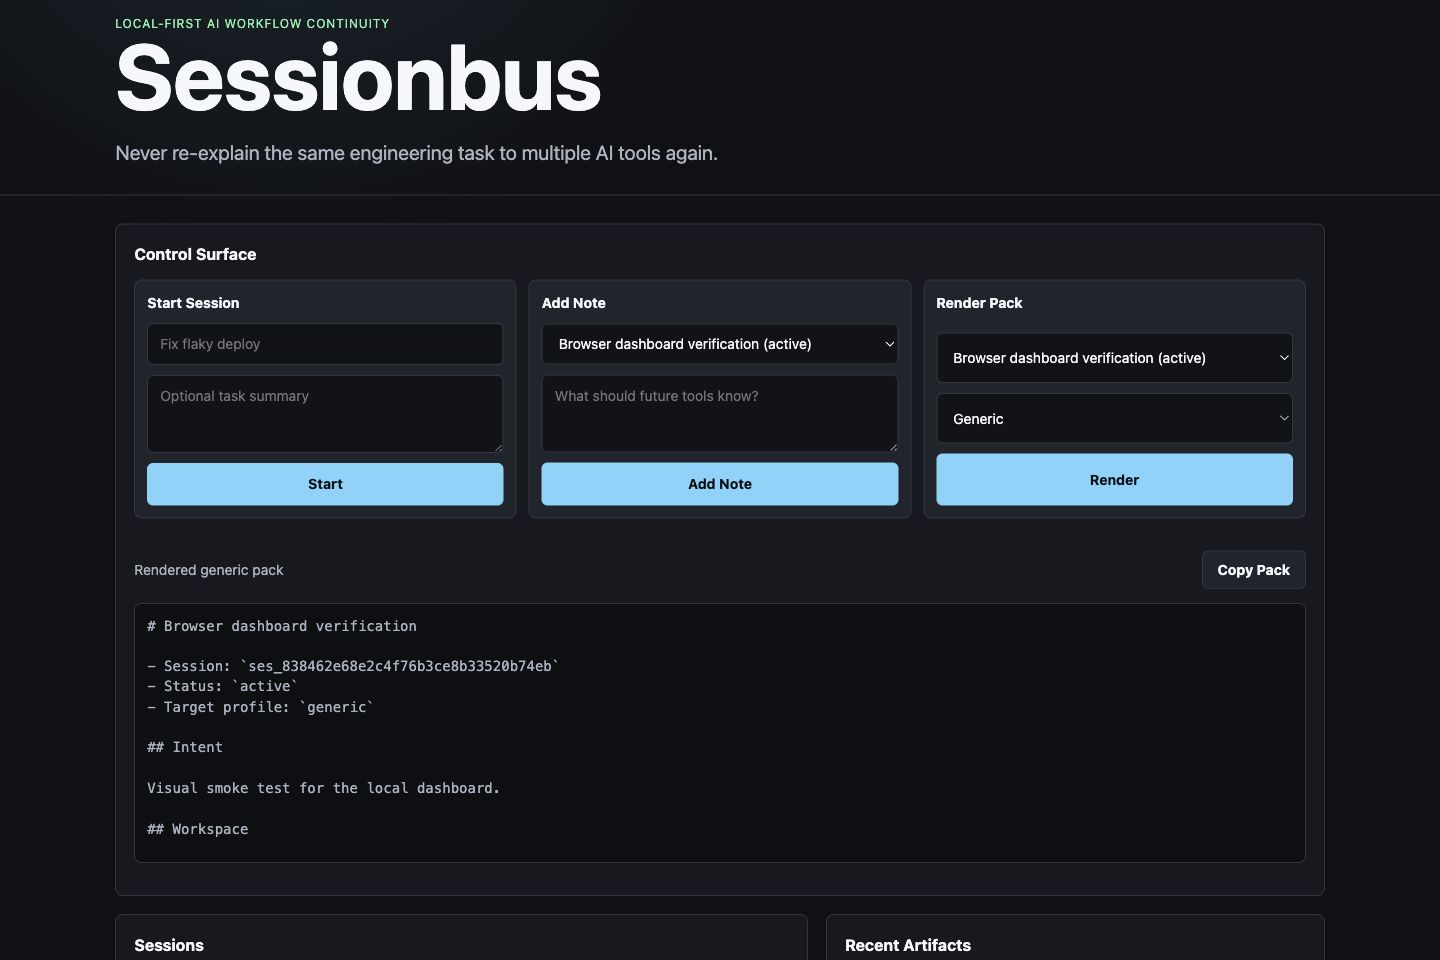
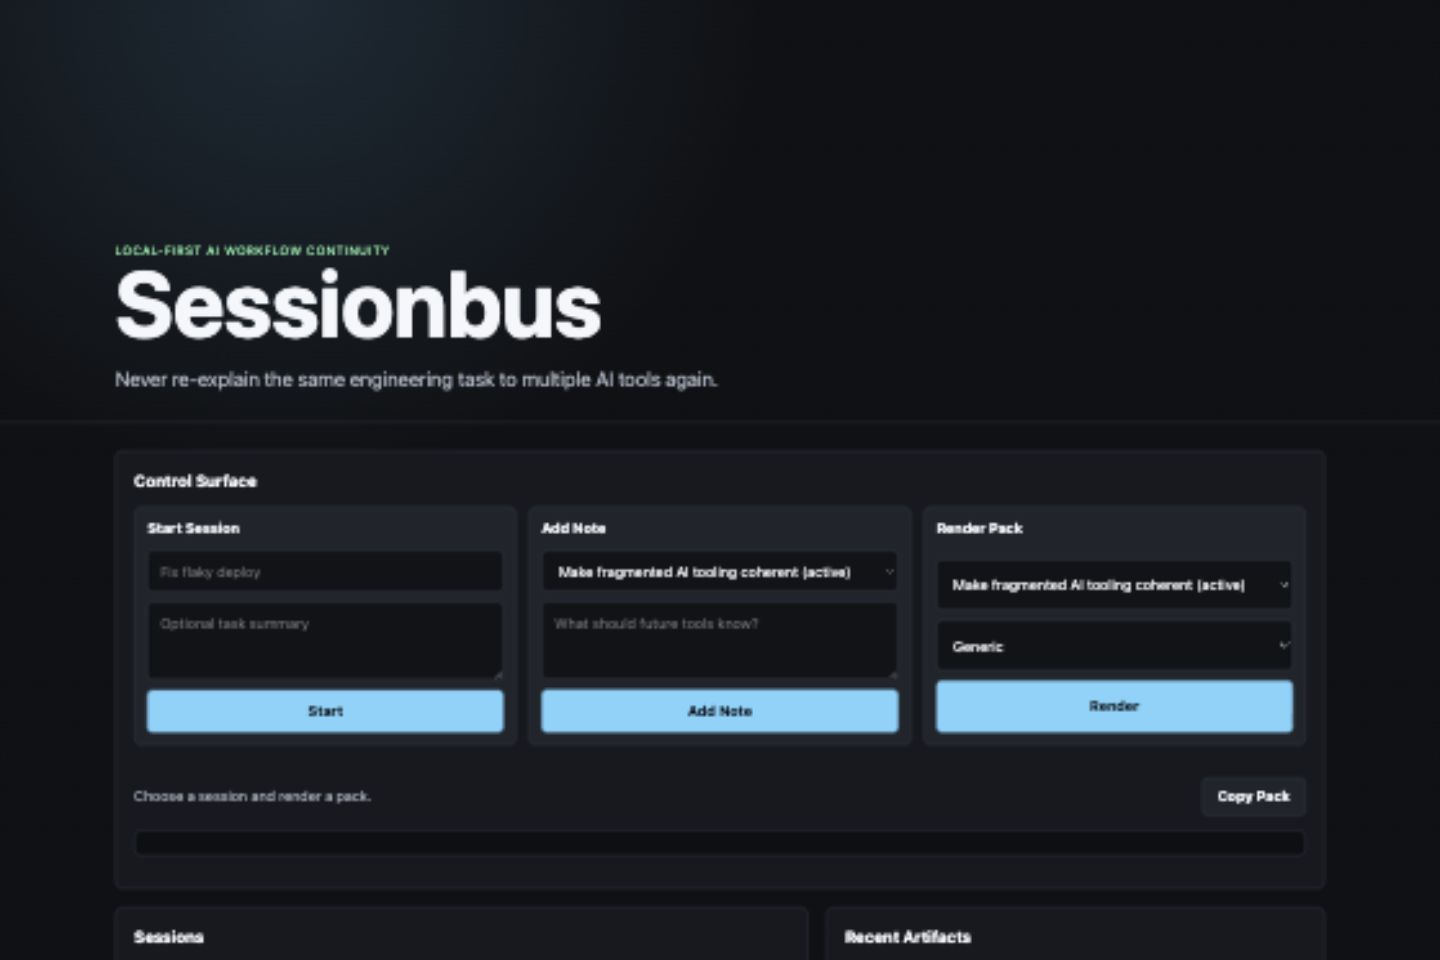
chore: add release artifacts workflow

diff --git a/scripts/selftest.ts b/scripts/selftest.ts
@@ -576,6 +576,34 @@ async function runCliE2e() {
     assertIncludes(releaseDraft.stdout, "DRY_RUN=1", "release draft dry run");
   });
 
+  const releaseDist = join(tempRoot, "release-dist");
+  const releasePackage = await checked("package release artifacts", "bash", [
+    "scripts/package-release.sh",
+    "v0.1.0",
+  ], {
+    env: { ...baseEnv, PROFILE: "debug", SKIP_BUILD: "1", DIST_DIR: releaseDist },
+    cwd: root,
+  });
+  await manualStep("verify release package artifacts", async () => {
+    assertIncludes(releasePackage.stdout, "sessionbus-v0.1.0", "release archive name");
+    const archive = join(releaseDist, "sessionbus-v0.1.0-x86_64-apple-darwin.tar.gz");
+    const armArchive = join(releaseDist, "sessionbus-v0.1.0-aarch64-apple-darwin.tar.gz");
+    const linuxArchive = join(releaseDist, "sessionbus-v0.1.0-x86_64-unknown-linux-gnu.tar.gz");
+    const chosen = [archive, armArchive, linuxArchive].find((path) => existsSync(path));
+    if (!chosen) {
+      throw new Error(`expected release archive in ${releaseDist}`);
+    }
+    if (!existsSync(`${chosen}.sha256`)) {
+      throw new Error(`expected checksum for ${chosen}`);
+    }
+  });
+  await manualStep("verify tag release workflow", async () => {
+    const workflow = await readFile(join(root, ".github", "workflows", "release.yml"), "utf8");
+    assertIncludes(workflow, "tags:", "release workflow tag trigger");
+    assertIncludes(workflow, "scripts/package-release.sh", "release workflow package script");
+    assertIncludes(workflow, "gh release upload", "release workflow upload");
+  });
+
   const installCodex = await checked("print codex install helper", aictx, [
     "--api",
     api,

diff --git a/docs/release.md b/docs/release.md
@@ -52,6 +52,7 @@ end
 - `bun install --frozen-lockfile`
 - `bun run selftest`
 - `bun run release:notes v0.1.0`
+- `VERSION=v0.1.0 ./scripts/package-release.sh`
 - `cargo package -p aictx-cli --allow-dirty`
 - `aictx completions zsh`
 - `DRY_RUN=1 ./scripts/install.sh`
@@ -73,4 +74,18 @@ Create a draft release after CI is green and the tag exists:
 
 ```bash
 ./scripts/release-draft.sh v0.1.0
+```
+
+## Tag Release Artifacts
+
+Pushing a `v*` tag runs `.github/workflows/release.yml`. The workflow creates a
+draft release if one does not exist, runs the selftest, builds archives for
+Linux and macOS runners, and uploads `.tar.gz` archives plus `.sha256`
+checksums.
+
+Local package rehearsal:
+
+```bash
+VERSION=v0.1.0 ./scripts/package-release.sh
+ls dist/
 ```

diff --git a/README.md b/README.md
@@ -210,7 +210,7 @@ Current workspace:
 - `packages/adapter-sdk-ts`: TypeScript adapter SDK.
 - `adapters/*`: example adapters.
 - `scripts/install.sh`: local source install helper.
-- `docs/release.md`: release checklist, notes, and GitHub draft flow.
+- `docs/release.md`: release checklist, notes, artifacts, and GitHub draft flow.
 
 ## Status
 
